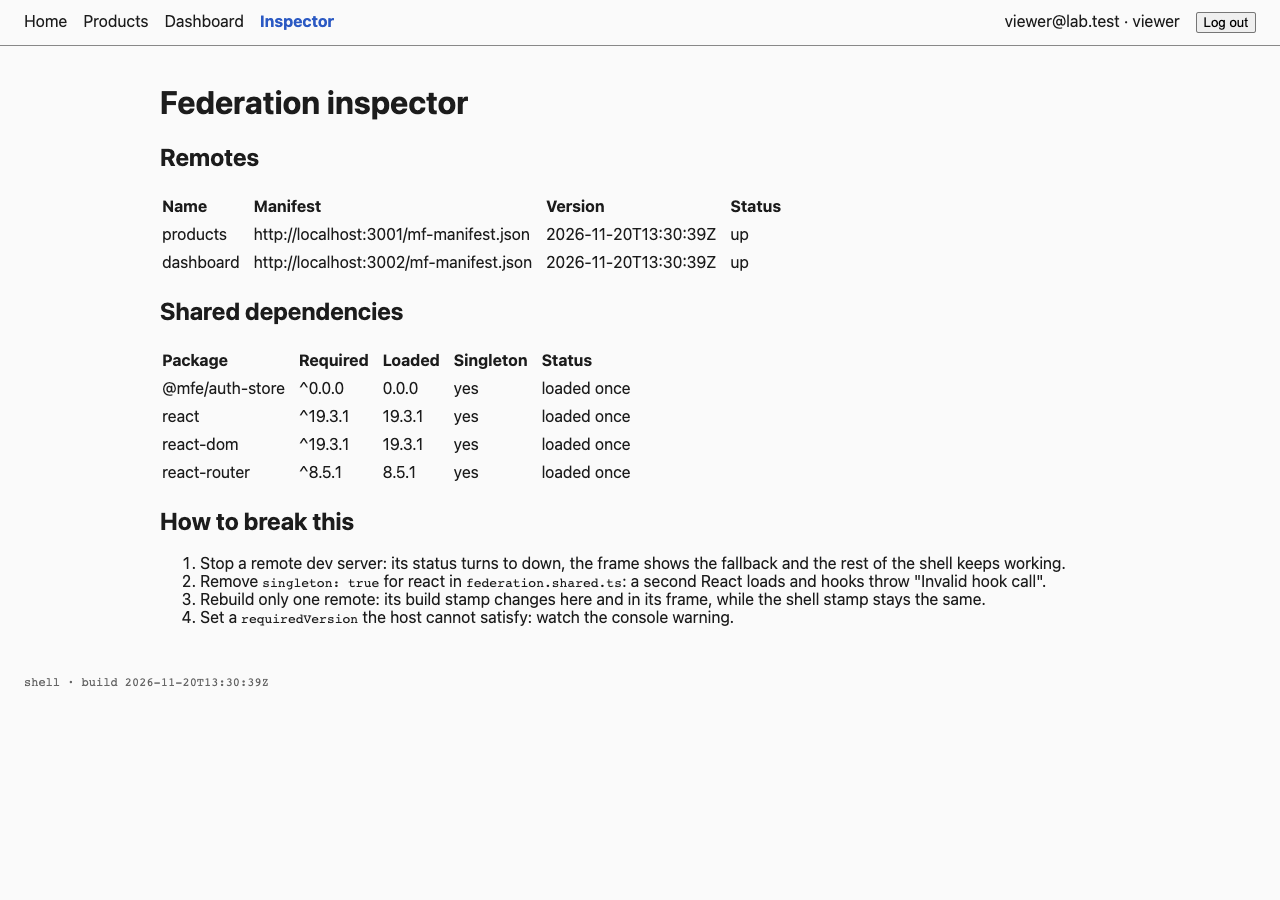
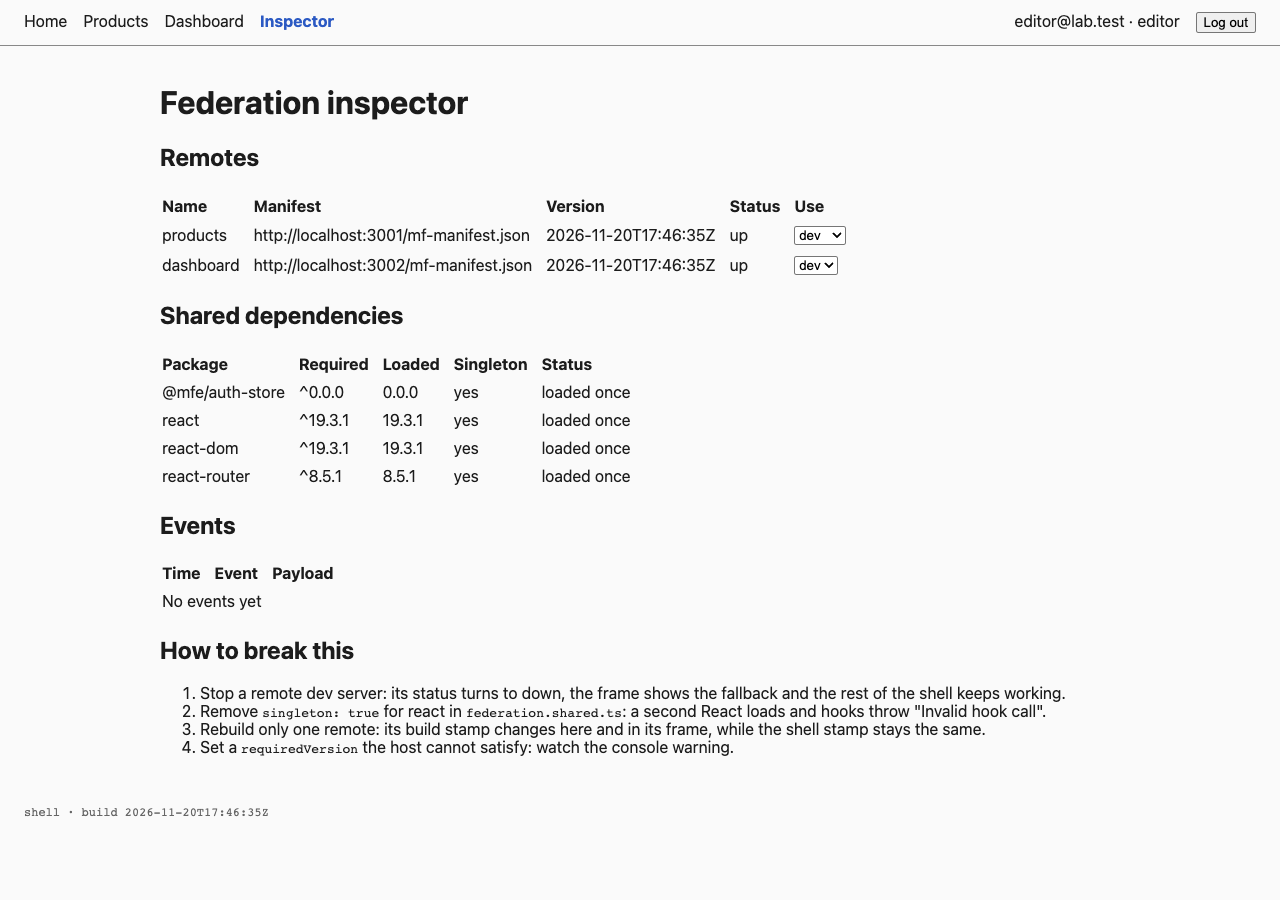
docs: add architecture infographic, data-flow diagrams and fresh screenshots

diff --git a/README.md b/README.md
@@ -1,12 +1,14 @@
 # mfe-lab
 
-Private learning lab: **Federated Micro Frontends** with React, Rspack Module Federation, and a small Fastify + SQLite API.
+A learning lab for **Federated Micro Frontends**. One shell app loads two independently built and served remotes (products and dashboard) at runtime with Rspack Module Federation 2, shares React, React Router and the auth store as singletons, and keeps each remote's data in its own TanStack Query cache (plus a Redux Toolkit store local to products). The remotes sync through a small typed DOM event contract, and a Fastify + SQLite API gives them real auth and CRUD. The inspector page shows remotes, versions, shared dependencies and a live event log. Releases can be frozen and switched at runtime; Docker and Playwright e2e are included.
+
+![Architecture: browser, shell host, shared singletons, products and dashboard remotes, event bus, API](docs/img/architecture.svg)
 
 The brief is in [`docs/BRIEF.md`](docs/BRIEF.md), the task plan in [`docs/PLAN.md`](docs/PLAN.md), and the design decisions in [`docs/rfc/`](docs/rfc/). Why Module Federation and not Native Federation: [RFC 0003](docs/rfc/0003-native-federation-comparison.md).
 
-Prerequisites: Node 26 (`nvm use`) and pnpm 12 (`packageManager` pins 12.21.0).
-
 ## Quick start
+
+Prerequisites: Node 26 (`nvm use`) and pnpm 12 (`packageManager` pins 12.21.0).
 
 ```bash
 pnpm i
@@ -18,7 +20,14 @@ Then open <http://localhost:3000>. `pnpm dev` runs the shell (`:3000`), products
 
 Demo users (**demo-only**, never reuse the password): `admin@lab.test`, `editor@lab.test`, `viewer@lab.test`, all with password `lab12345`.
 
-## Six things to see
+```bash
+pnpm build   # apps/*/dist (remotes emit mf-manifest.json)
+pnpm lint && pnpm typecheck && pnpm test
+```
+
+Remote manifest URLs are baked into the shell at build time; override with `MF_PRODUCTS_URL` / `MF_DASHBOARD_URL` (defaults `http://localhost:3001|3002/mf-manifest.json`). Package versions live in the `catalog:` of `pnpm-workspace.yaml`.
+
+## Things to see
 
 ### 1. Login in the shell
 
@@ -55,6 +64,26 @@ Restart or rebuild only one remote and reload the page: only its build stamp cha
 The products remote never logs in. It reads the user from the shared `@mfe/auth-store` singleton. Signed in as a viewer you only see the table; sign in as an editor or admin and the same remote shows the "Add product" button and the edit and delete actions. The API enforces the same roles.
 
 ![Products as editor, with Add product](docs/screenshots/6-roles.png)
+
+### 7. Switch a remote to a frozen release
+
+After `pnpm --filter @mfe/products release 1.0.0` and `1.1.0`, the inspector `Use` select for products lists `dev`, `1.0.0` and `1.1.0`. Pick `1.1.0` and the manifest URL changes to `/releases/1.1.0/mf-manifest.json`; Home then shows `build 1.1.0` in the products frame. The shell is not rebuilt (RFC 0004). The screenshot stacks the inspector and Home, because the selection lives in memory and cannot be shared between two page loads.
+
+![Inspector with products on 1.1.0, Home showing build 1.1.0](docs/screenshots/7-versions.png)
+
+### 8. Events between remotes, live
+
+The inspector has an `Events` table: every `@mfe/events` event with time, name and payload, newest first, last 20 only. This one was captured right after adding a product in the products frame.
+
+![Inspector Events log after an edit](docs/screenshots/8-events.png)
+
+### 9. Edit in one remote, the other updates
+
+On Home, the dashboard `Products` tile reads 30. Add a product in the products frame and the tile moves to 31 with no reload and no shared cache between the two remotes; the new row is found by searching for its SKU.
+
+| Before                                                                    | After                                                                                                 |
+| ------------------------------------------------------------------------- | ----------------------------------------------------------------------------------------------------- |
+| ![Home, Products tile at 30](docs/screenshots/9a-cross-remote-before.png) | ![Home, Products tile at 31 and the new row in the table](docs/screenshots/9b-cross-remote-after.png) |
 
 ## How it works
 
@@ -104,15 +133,58 @@ sequenceDiagram
   end
 ```
 
-## Develop
+### Edit a product, the dashboard updates
 
-```bash
-pnpm dev     # shell :3000, products :3001, dashboard :3002, api :4000 (all in parallel)
-pnpm build   # apps/*/dist (remotes emit mf-manifest.json)
-pnpm lint && pnpm typecheck && pnpm test
+```mermaid
+sequenceDiagram
+  actor U as Editor
+  participant PP as products (useMutation)
+  participant API as api :4000
+  participant W as window
+  participant DD as dashboard (on)
+  participant QC as dashboard QueryClient
+
+  U->>PP: Save in the edit dialog
+  PP->>API: PATCH /api/products/:id
+  API-->>PP: 200 updated product
+  PP->>PP: invalidateQueries(['products'])
+  PP->>W: emit('products:changed', { id, kind })
+  Note over PP,W: dispatchEvent(CustomEvent 'mfe:products:changed')
+  W-->>DD: listener registered with on()
+  DD->>QC: invalidateQueries(['stats'])
+  QC->>API: GET /api/stats
+  API-->>QC: counts, revenue, orders per day
+  QC-->>U: stat tiles re-render
 ```
 
-Remote manifest URLs are baked into the shell at build time; override with `MF_PRODUCTS_URL` / `MF_DASHBOARD_URL` (defaults `http://localhost:3001|3002/mf-manifest.json`). Package versions live in the `catalog:` of `pnpm-workspace.yaml`.
+A failed mutation (409, 500) emits nothing.
+
+### Who owns which state
+
+```mermaid
+flowchart LR
+  subgraph shell["shell (host)"]
+    AS[("@mfe/auth-store<br/>user + token<br/>shared singleton")]
+    LOG["event log<br/>last 20, in memory"]
+  end
+  subgraph products["products remote"]
+    PQ["QueryClient<br/>server state: products"]
+    PR["Redux store productsUi<br/>page, sort, search, dialogs"]
+  end
+  subgraph dashboard["dashboard remote"]
+    DQ["QueryClient<br/>server state: stats"]
+  end
+  EV{"@mfe/events<br/>window CustomEvent<br/>the only contract"}
+
+  AS -. "read by" .-> products
+  AS -. "read by" .-> dashboard
+  products -- "emit products:changed" --> EV
+  EV -- "on" --> dashboard
+  EV -- "onAny" --> LOG
+  PQ --- PR
+```
+
+Rules: no remote reads another remote's store or cache; `@tanstack/react-query`, `@reduxjs/toolkit`, `react-redux` and `@mfe/events` are not in `federation.shared.ts`; only `react`, `react-dom`, `react-router` and `@mfe/auth-store` are shared.
 
 ### Login flow
 
@@ -132,15 +204,19 @@ It also runs on its own: `pnpm --filter @mfe/products dev` serves it on `:3001` 
 
 It also runs on its own: `pnpm --filter @mfe/dashboard dev` serves it on `:3002` with the same "Standalone dev" bar as products (the bar is not part of the exposed module).
 
-### Data between remotes
-
-Products and dashboard each fetch through their own TanStack Query client (created per page mount and per user, bundled in each remote, never shared). When products creates, updates or deletes a product it emits `products:changed` through `@mfe/events`, and the dashboard invalidates its stats: on Home the `Products` tile updates with no reload (RFC 0006). Products keeps its UI state (page, sort, search, dialogs) in a per-mount Redux Toolkit store, also never shared.
-
 ### Inspector and build stamps
 
 Every build gets a stamp: `MF_BUILD_VERSION` if set, else the UTC time (`YYYY-MM-DDTHH:MM:SSZ`). It is baked in as `__BUILD_VERSION__`, written to `mf-manifest.json` (`metaData.buildInfo.buildVersion`), exported as `buildVersion` by both exposed pages, and shown in each remote frame and in the shell footer. Rebuild one remote and its stamp changes while the shell's stays. `/inspector` (no login) lists the remotes with their live manifest version and up/down status (polled every 5 s) and the shared dependencies read from the runtime's share scope.
 
-### Versioned remotes
+## Data between remotes
+
+Server state: products and dashboard each fetch through their own TanStack Query client, created per page mount and per user, bundled in each remote and never shared. After a user change the page refetches, so one user's rows are not shown to the next.
+
+UI state: the products page keeps page, sort, order, search and open dialogs in a Redux Toolkit slice `productsUi`, in a store created per mount (`makeStore()`), local to products.
+
+Between remotes: `@mfe/events` wraps `window` `CustomEvent`, so each remote may bundle its own copy and they still talk. The contract is the `EventMap` type in `packages/events/src/index.ts`; today it has one event, `products:changed` with `{ id, kind: 'created' | 'updated' | 'deleted' }`. `emit` with an unknown name is a TypeScript error. Products emits it after a successful create, update or delete; the dashboard calls `invalidateQueries({ queryKey: ['stats'] })`. The shell subscribes with `onAny` and keeps the last 20 events for the inspector. Details and rejected alternatives: [RFC 0006](docs/rfc/0006-data-between-remotes.md).
+
+## Versioned remotes
 
 A remote can be frozen into a release and the shell can switch to it at runtime, using only manifest URLs (RFC 0004).
 
@@ -149,7 +225,30 @@ A remote can be frozen into a release and the shell can switch to it at runtime,
 3. `pnpm --filter @mfe/products release 1.1.0`.
 4. With `pnpm dev` running, open `/inspector`, pick `1.0.0`, `1.1.0` or `dev` in the `Use` column for products, then open Home: the frame shows `build 1.1.0` and the change.
 
-The selection lives in memory only: a reload goes back to `dev`.
+The selection lives in memory only: a reload goes back to `dev`. To clean up, delete `apps/products/releases`.
+
+## Testing
+
+- **Unit and component (black-box):** `pnpm test` runs Vitest. API tests use Fastify `inject` with in-memory SQLite; frontend tests use Testing Library. Tests are written from the task contract in `docs/PLAN.md`, not from the implementation.
+- **E2E:** `pnpm e2e` runs one Playwright suite in `e2e/` against the dev servers in headless Chromium.
+- **E2E on Docker images:** `pnpm e2e:docker` runs the same specs against the compose stack.
+
+```bash
+pnpm exec playwright install chromium   # once
+pnpm e2e
+pnpm e2e:docker
+```
+
+Playwright starts the API (after seeding), products, dashboard and shell itself. Locally it reuses servers that are already running (for example from `pnpm dev`) and does not stop them; in CI (`CI` set) it always starts its own. The suite covers login, both remotes rendering, the shared login (a viewer cannot see "Add product", an editor can), the inspector, and the remote-down fallback, which is simulated by aborting requests to `:3001`. Before the tests, `e2e/global-setup.ts` freezes two products releases, `0.0.1-e2e` and `0.0.2-e2e`, for the version-switching spec; `e2e/global-teardown.ts` deletes them and their `releases/index.json` entries. `pnpm e2e:docker` runs the compose stack (`docker compose up --build`, which Playwright stops afterwards; local only, `act` cannot run Docker). It skips the release fixtures and `E-versions`, because nginx serves no `releases/`. The containers are stopped, not removed; `docker compose down -v` removes them and the DB volume, and is the cleanup after an aborted run. Reports and traces go to `playwright-report/` and `test-results/` (gitignored).
+
+## Docker
+
+```bash
+docker compose up --build -d   # shell :3000, products :3001, dashboard :3002
+docker compose down -v         # stop and drop the DB volume
+```
+
+One `Dockerfile`, three targets: `build` (install and build all apps), `api` (production deps only, seeds on start, then `node src/server.ts`) and `web` (nginx with build arg `APP`). nginx falls back to `index.html`, proxies `/api/` to the API with the prefix stripped, sends `Access-Control-Allow-Origin: *` and `no-store` for `mf-manifest.json` and `remoteEntry.js`. The API listens on `HOST` (default `127.0.0.1`, compose sets `0.0.0.0`) and is not published to the host. The compose `JWT_SECRET` is demo-only. Manifest URLs stay `localhost:3001/3002`, so this is a local setup. CI does not cover it: `act` runs inside Docker.
 
 ## API
 
@@ -189,29 +288,16 @@ Pagination defaults to `page=1&limit=20` (max `limit` 100); `sort` is one of `id
 
 Interactive OpenAPI docs: <http://localhost:4000/docs> (spec at `/docs/json`; both public).
 
-## E2E
+## RFCs
 
-One Playwright smoke suite in `e2e/` runs against the dev servers in headless Chromium. Install the browser once, then run:
-
-```bash
-pnpm exec playwright install chromium
-pnpm e2e
-```
-
-Playwright starts the API (after seeding), products, dashboard and shell itself. Locally it reuses servers that are already running (for example from `pnpm dev`) and does not stop them; in CI (`CI` set) it always starts its own. The suite covers login, both remotes rendering, the shared login (a viewer cannot see "Add product", an editor can), the inspector, and the remote-down fallback, which is simulated by aborting requests to `:3001`. Before the tests, `e2e/global-setup.ts` freezes two products releases, `0.0.1-e2e` and `0.0.2-e2e`, for the version-switching spec; `e2e/global-teardown.ts` deletes them and their `releases/index.json` entries. `pnpm e2e:docker` runs the same specs against the compose stack (`docker compose up --build`, which Playwright stops afterwards; local only, `act` cannot run Docker). It skips the release fixtures and `E-versions`, because nginx serves no `releases/`. The containers are stopped, not removed; `docker compose down -v` removes them and the DB volume, and is the cleanup after an aborted run. Reports and traces go to `playwright-report/` and `test-results/` (gitignored).
-
-## Run with Docker
-
-```bash
-docker compose up --build -d   # shell :3000, products :3001, dashboard :3002
-docker compose down -v         # stop and drop the DB volume
-```
-
-One `Dockerfile`, three targets: `build` (install and build all apps), `api` (production deps only, seeds on start, then `node src/server.ts`) and `web` (nginx with build arg `APP`). nginx falls back to `index.html`, proxies `/api/` to the API with the prefix stripped, sends `Access-Control-Allow-Origin: *` and `no-store` for `mf-manifest.json` and `remoteEntry.js`. The API listens on `HOST` (default `127.0.0.1`, compose sets `0.0.0.0`) and is not published to the host. The compose `JWT_SECRET` is demo-only. Manifest URLs stay `localhost:3001/3002`, so this is a local setup. CI does not cover it: `act` runs inside Docker.
-
-## Dependencies
-
-Dependabot (`.github/dependabot.yml`) opens weekly grouped PRs for npm and GitHub Actions. GitHub Actions minutes are unavailable, so CI does not run on GitHub. Check each Dependabot PR with local `act` from a fresh clone before merging (see "Run CI locally").
+| #    | Title                                                                                 | Status   | Decision                                                                                                                         |
+| ---- | ------------------------------------------------------------------------------------- | -------- | -------------------------------------------------------------------------------------------------------------------------------- |
+| 0001 | [Module Federation for the frontend](docs/rfc/0001-module-federation-for-frontend.md) | Accepted | One shell host and two remotes, built and served independently, joined at runtime with Rspack and `@module-federation/enhanced`. |
+| 0002 | [Sharing auth state](docs/rfc/0002-sharing-auth-state.md)                             | Accepted | The shell owns login; remotes read user and token from the `@mfe/auth-store` singleton; the token stays in memory.               |
+| 0003 | [Native Federation comparison](docs/rfc/0003-native-federation-comparison.md)         | Accepted | Stay on Module Federation 2; Native Federation would replace working code for little gain.                                       |
+| 0004 | [Versioned remotes](docs/rfc/0004-versioned-remotes.md)                               | Accepted | Freeze a remote into a static release; the shell switches versions by changing only the manifest URL.                            |
+| 0005 | [Prefetch remotes on idle](docs/rfc/0005-prefetch-remotes.md)                         | Accepted | After first render the shell preloads both remotes on idle; measured 1201 to 823 ms on Fast 4G.                                  |
+| 0006 | [Data between remotes](docs/rfc/0006-data-between-remotes.md)                         | Accepted | One TanStack Query client per remote, Redux Toolkit local to products, typed `window` events between remotes; nothing shared.    |
 
 ## Run CI locally
 
@@ -220,3 +306,7 @@ GitHub Actions minutes are unavailable, so run CI with [act](https://github.com/
 ```bash
 d=$(mktemp -d) && git clone -q -b <branch> "$PWD" "$d" && (cd "$d" && act pull_request -P ubuntu-latest=catthehacker/ubuntu:act-latest); rm -rf "$d"
 ```
+
+## Dependencies
+
+Dependabot (`.github/dependabot.yml`) opens weekly grouped PRs for npm and GitHub Actions. GitHub Actions minutes are unavailable, so CI does not run on GitHub. Check each Dependabot PR with local `act` from a fresh clone before merging (see "Run CI locally").

diff --git a/docs/PLAN.md b/docs/PLAN.md
@@ -121,6 +121,11 @@ Goal: weekly grouped dependency update PRs via `.github/dependabot.yml`, with no
 - **Goal:** the products page keeps its UI state (page, sort, order, search, open dialogs) in a Redux Toolkit slice `productsUi`, in a store created per page mount and per user, local to the products remote (RFC 0006).
 - **Done when:** products behaviour is unchanged and all existing tests pass unedited; `@reduxjs/toolkit` and `react-redux` are absent from `federation.shared.ts`; two stores created by `makeStore()` share no state.
 
+## T20 Docs
+
+- **Goal:** the README reads in two minutes: pitch and infographic first, then quick start, "Things to see" with a screenshot each (the six brief points plus versions, events and cross-remote sync), data-flow diagrams, an RFC index, and an accurate command for every task. Screenshots are refreshed at 1280x900.
+- **Done when:** `docs/img/architecture.svg` (under 60 KB, explicit background) renders without overlapping text; the README has the sequence diagram and the state-ownership flowchart; `docs/screenshots/` holds 1 to 8 plus `9a`/`9b`, each at most 300 KB; `pnpm lint && pnpm typecheck && pnpm test` pass.
+
 ## Later (not now)
 
 Nothing planned.
